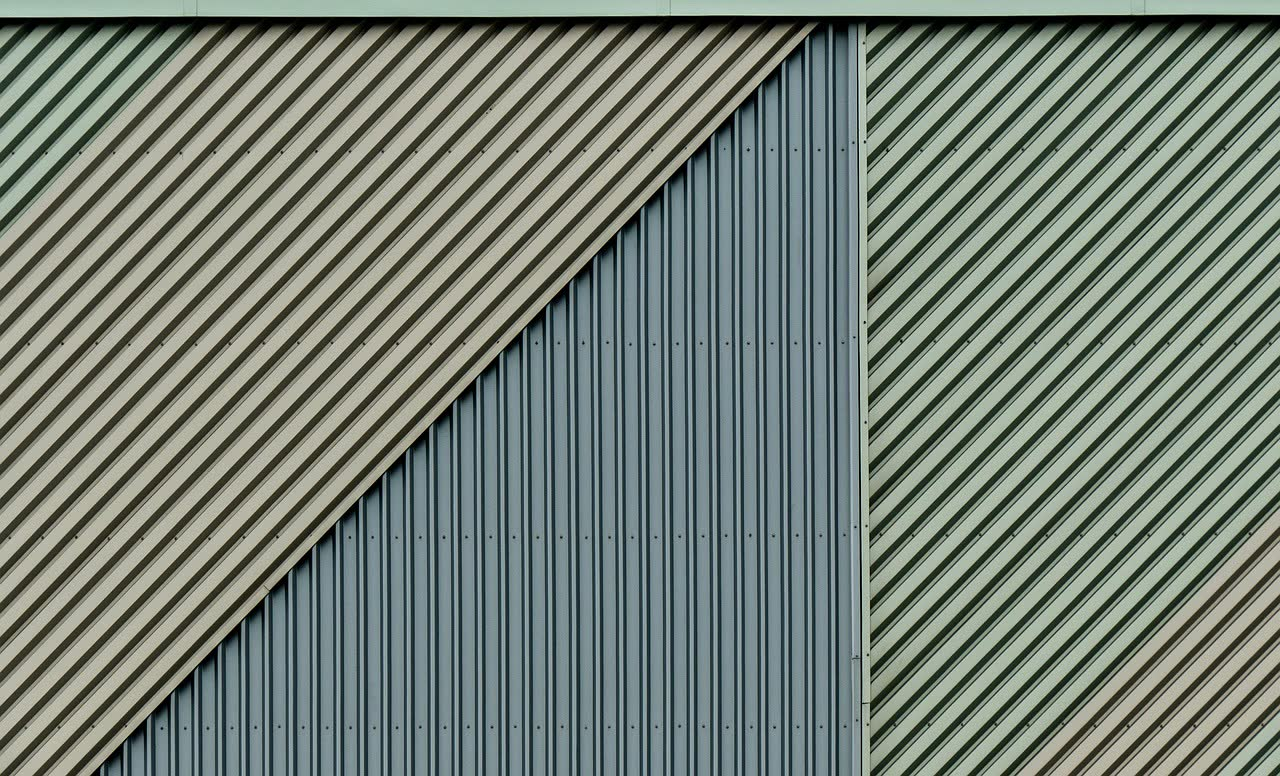
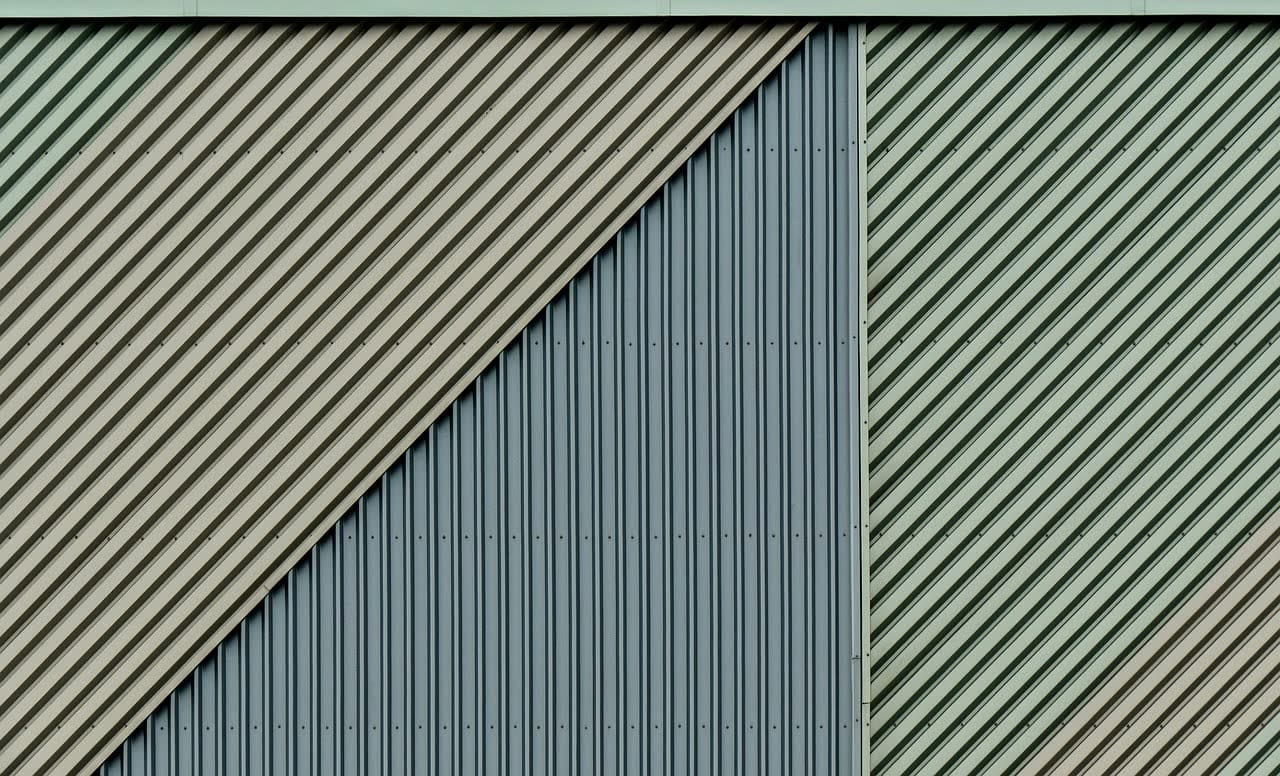
Los pies de los servicios prometen lo que se cumple, el reglamento europeo de IA se llama en castellano y el post de mantenimiento enlaza las guías en su nueva dirección
La foto industrial se recomprime y el presupuesto de peso sube a 24 MB porque
el sitio pasa de 71 a 105 páginas.

diff --git a/src/i18n/ui.ts b/src/i18n/ui.ts
@@ -1800,7 +1800,7 @@ export const content: Record<Lang, SiteContent> = {
           {
             tag: 'guide',
             title: 'Reglamento Europeo de Inteligencia Artificial',
-            desc: 'Qué obligaciones introduce el AI Act para las empresas que desarrollan, implantan o utilizan sistemas de IA.',
+            desc: 'Qué obligaciones introduce el reglamento europeo de IA para las empresas que desarrollan, implantan o utilizan sistemas de IA.',
             href: '/guias/reglamento-europeo-de-ia',
           },
           {
@@ -6517,7 +6517,7 @@ export const content: Record<Lang, SiteContent> = {
             ],
           },
           {
-            heading: 'Inteligencia artificial y AI Act',
+            heading: 'Inteligencia artificial y reglamento europeo de IA',
             blocks: [
               'El Reglamento Europeo de Inteligencia Artificial establece obligaciones diferentes según el sistema, su finalidad, el nivel de riesgo y el papel que desempeña cada organización.',
               'Desde el <strong>2 de agosto de 2026</strong> son aplicables, entre otras, las obligaciones de transparencia previstas en el artículo 50 para determinados sistemas de IA. Estas incluyen, en ciertos casos, informar a una persona cuando interactúa directamente con un sistema de inteligencia artificial.',
@@ -6631,7 +6631,7 @@ export const content: Record<Lang, SiteContent> = {
               a: 'Puede diseñarse teniendo en cuenta los requisitos aplicables de protección de datos, pero el cumplimiento depende del caso de uso, los datos, la base jurídica, los proveedores y la organización.',
             },
             {
-              q: '¿El AI Act afecta a los chatbots?',
+              q: '¿El reglamento europeo de IA afecta a los chatbots?',
               a: 'Puede hacerlo. Desde el 2 de agosto de 2026 el artículo 50 establece obligaciones de transparencia para determinados sistemas que interactúan directamente con personas.',
             },
             {
@@ -10684,7 +10684,7 @@ export const content: Record<Lang, SiteContent> = {
             },
             contact: {
               h2: 'Cuéntanos dónde vive ahora el conocimiento de tu empresa',
-              p: 'Explícanos qué información necesita encontrar vuestro equipo, dónde está almacenada y quién debería poder consultarla. Analizaremos cómo hacerla accesible sin perder control sobre las fuentes, los permisos, las versiones y la seguridad.',
+              p: 'Explícanos qué información necesita encontrar vuestro equipo, dónde está almacenada y quién debería poder consultarla. Te respondemos en un día laborable con una primera lectura de tu caso.',
               cta: 'Crear un asistente sobre nuestro conocimiento',
             },
             pizarras: [
@@ -10955,7 +10955,7 @@ export const content: Record<Lang, SiteContent> = {
             },
             contact: {
               h2: 'Cuéntanos qué debería poder resolver una conversación',
-              p: 'No necesitas decidir si necesitas un chatbot, un agente conversacional o una arquitectura concreta. Explícanos quién hablaría con el sistema, qué solicitudes recibe actualmente vuestro equipo y qué debería ocurrir después de cada conversación. Analizaremos qué puede automatizarse, qué sistemas habría que conectar y en qué situaciones debería intervenir una persona.',
+              p: 'No necesitas decidir si necesitas un chatbot, un agente conversacional o una arquitectura concreta. Explícanos quién hablaría con el sistema, qué solicitudes recibe actualmente vuestro equipo y qué debería ocurrir después de cada conversación. Te respondemos en un día laborable con una primera lectura de tu caso.',
               cta: 'Desarrollar un agente conversacional con Ideasforge',
             },
             pizarras: [
@@ -11121,7 +11121,7 @@ export const content: Record<Lang, SiteContent> = {
               ],
             },
             control: {
-              kicker: 'Seguridad, RGPD y AI Act',
+              kicker: 'Seguridad, RGPD y reglamento europeo de IA',
               h2: 'Seguridad y cumplimiento desde la estrategia',
               p: [
                 'Algunas decisiones de arquitectura afectan directamente a la privacidad, la exposición de información y el riesgo regulatorio. No deberían revisarse únicamente cuando el desarrollo está terminado.',
@@ -11206,7 +11206,7 @@ export const content: Record<Lang, SiteContent> = {
             },
             contact: {
               h2: 'Cuéntanos qué quieres mejorar, aunque todavía no sepas cómo',
-              p: 'No necesitas llegar con un agente definido, una arquitectura diseñada ni una solución decidida. Explícanos qué proceso quieres mejorar, qué problemas encuentra vuestro equipo o qué oportunidades estáis valorando. Analizaremos qué tiene sentido hacer, qué no y cuál debería ser el siguiente paso.',
+              p: 'No necesitas llegar con un agente definido, una arquitectura diseñada ni una solución decidida. Explícanos qué proceso quieres mejorar, qué problemas encuentra vuestro equipo o qué oportunidades estáis valorando. Te respondemos en un día laborable con una primera lectura de tu caso.',
               cta: 'Analizar una oportunidad con Ideasforge',
             },
           },
@@ -11261,7 +11261,7 @@ export const content: Record<Lang, SiteContent> = {
               'utilizar una API',
               'registrar una operación',
               'enviar una comunicación',
-              'iniciar un workflow',
+              'iniciar un flujo de trabajo',
               'pedir intervención humana cuando el caso lo requiera',
             ],
             closing: [
@@ -11708,7 +11708,7 @@ export const content: Record<Lang, SiteContent> = {
           body: [
             'No necesitas decidir qué modelo utilizar, cuántos agentes hacen falta ni cómo debería ser la arquitectura.',
             'Explícanos qué proceso quieres mejorar, con qué herramientas tendría que trabajar el sistema y qué acciones debería poder realizar.',
-            'Analizaremos si realmente necesitas un agente de IA, qué partes deben permanecer bajo reglas de software y cómo podría construirse para trabajar en producción.',
+            'Te respondemos en un día laborable con una primera lectura de tu caso.',
           ],
           button: 'Hablar con Ideasforge',
         },

diff --git a/src/content/blog/es/despues-de-entregar-un-agente-de-ia.md b/src/content/blog/es/despues-de-entregar-un-agente-de-ia.md
@@ -53,7 +53,7 @@ También hace falta un listón claro: qué parte de los casos tiene que acertar 
 
 **Cada vez que el chatbot trabaja queda una traza en Arize Phoenix: qué le llegó, qué hizo paso a paso, cuánto costó, cuánto tardó y qué modelo respondió de verdad.** Phoenix es una herramienta de la empresa Arize para ver por dentro lo que hace un agente de IA. La usamos en los chatbots y agentes que mantenemos.
 
-Las trazas no salen a la nube de un tercero. En los proyectos a medida, Phoenix va instalado en tu propio servidor, como contamos en la [guía de IA y RGPD](/ia-y-rgpd).
+Las trazas no salen a la nube de un tercero. En los proyectos a medida, Phoenix va instalado en tu propio servidor, como contamos en la [guía de IA y RGPD](/guias/ia-y-rgpd).
 
 Con las trazas se ve qué cuesta el chatbot y si algo se está ralentizando. También se ve si el proveedor ha contestado con un modelo de respaldo sin avisar. En uno de nuestros chatbots, un control revisa este punto y no ha encontrado ningún modelo de respaldo en 29.041 llamadas.
 
@@ -96,7 +96,7 @@ La versión del modelo, además, está fijada. Actualizarla es una decisión nue
 - **Las preguntas que el chatbot no supo contestar**, para decidir juntos qué ajustar.
 - **Un informe semanal que lo resume**, si lo necesitas.
 
-En los proyectos a medida, el código y la infraestructura quedan a tu nombre desde el primer día. El mantenimiento va en una cuota mensual sin permanencia, y los precios están en la guía [cuánto cuesta un agente de IA](/cuanto-cuesta-un-agente-de-ia).
+En los proyectos a medida, el código y la infraestructura quedan a tu nombre desde el primer día. El mantenimiento va en una cuota mensual sin permanencia, y los precios están en la guía [cuánto cuesta un agente de IA](/guias/cuanto-cuesta-un-agente-de-ia).
 
 No vas a tener un chatbot que nunca se equivoque, porque eso no existe. **Vas a tener uno que se mide cada semana, que se prueba antes de cada cambio y que mejora con lo que no supo responder.**
 
